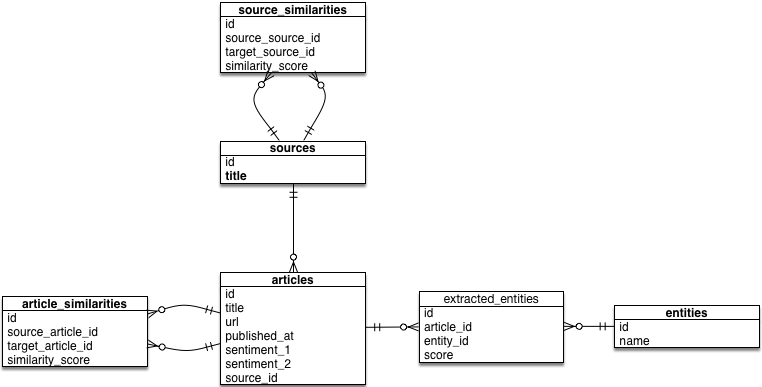
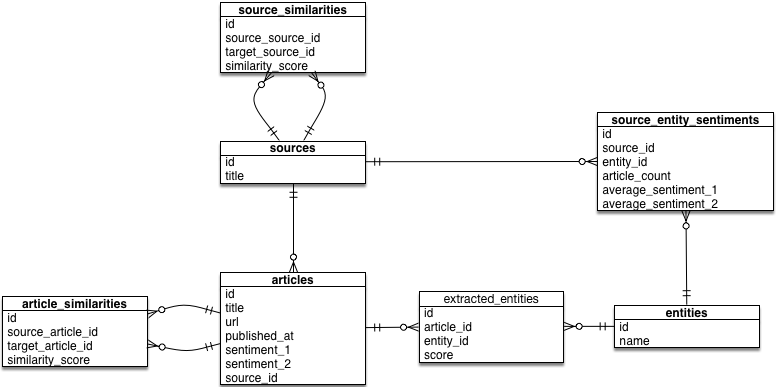
showing average sentiment per entity per source

diff --git a/app/assets/stylesheets/layout.css b/app/assets/stylesheets/layout.css
@@ -2,9 +2,6 @@
 .header {
 	background-color: #000;
 	background-color: rgba(0, 0, 0, 0.5);
-	position: fixed;
-	left: 0;
-	top: 0;
 	width: 100%;
 }
 
@@ -57,7 +54,7 @@
 
 /* main block */
 .main {
-	margin: 127px 3em 1em;
+	margin: 0 3em 1em;
 	padding: 1em;
 }
 .main p, .main ol {

diff --git a/db/schema.rb b/db/schema.rb
@@ -11,14 +11,56 @@
 #
 # It's strongly recommended that you check this file into your version control system.
 
-ActiveRecord::Schema.define(version: 20161129181927) do
+ActiveRecord::Schema.define(version: 20161201140303) do
 
   # These are extensions that must be enabled in order to support this database
   enable_extension "plpgsql"
 
+  create_table "article_similarities", force: :cascade do |t|
+    t.integer "source_article_id", null: false
+    t.integer "target_article_id", null: false
+    t.float   "similarity_score"
+  end
+
+  create_table "articles", force: :cascade do |t|
+    t.string   "title",        limit: 255, null: false
+    t.string   "url",          limit: 255
+    t.datetime "published_at"
+    t.float    "sentiment_1"
+    t.float    "sentiment_2"
+    t.integer  "source_id",                null: false
+  end
+
+  create_table "entities", force: :cascade do |t|
+    t.string "name", limit: 255, null: false
+  end
+
   create_table "extracted_entities", force: :cascade do |t|
+    t.integer "article_id", null: false
+    t.integer "entity_id",  null: false
+    t.float   "score"
+  end
+
+  create_table "source_entity_sentiments", force: :cascade do |t|
     t.datetime "created_at", null: false
     t.datetime "updated_at", null: false
   end
 
+  create_table "source_similarities", force: :cascade do |t|
+    t.integer "source_source_id", null: false
+    t.integer "target_source_id", null: false
+    t.float   "similarity_score"
+  end
+
+  create_table "sources", force: :cascade do |t|
+    t.string "title", limit: 255, null: false
+  end
+
+  add_foreign_key "article_similarities", "articles", column: "source_article_id", name: "fk_source_article"
+  add_foreign_key "article_similarities", "articles", column: "target_article_id", name: "fk_target_article"
+  add_foreign_key "articles", "sources", name: "fk_source"
+  add_foreign_key "extracted_entities", "articles", name: "fk_extracted_entity_article"
+  add_foreign_key "extracted_entities", "entities", name: "fk_extracted_entity_entity"
+  add_foreign_key "source_similarities", "sources", column: "source_source_id", name: "fk_source_source"
+  add_foreign_key "source_similarities", "sources", column: "target_source_id", name: "fk_target_source"
 end

diff --git a/app/models/entity.rb b/app/models/entity.rb
@@ -1,6 +1,7 @@
 class Entity < ActiveRecord::Base
   
   has_many :extracted_entities
+  has_many :source_entity_sentiments, -> { order 'average_sentiment_1 desc' }
   
   def articles
     Article.all

diff --git a/db/migrate/20161201140303_create_source_entity_sentiments.rb b/db/migrate/20161201140303_create_source_entity_sentiments.rb
@@ -1,0 +1,8 @@
+class CreateSourceEntitySentiments < ActiveRecord::Migration
+  def change
+    create_table :source_entity_sentiments do |t|
+
+      t.timestamps null: false
+    end
+  end
+end

diff --git a/test/models/source_entity_sentiment_test.rb b/test/models/source_entity_sentiment_test.rb
@@ -1,0 +1,7 @@
+require 'test_helper'
+
+class SourceEntitySentimentTest < ActiveSupport::TestCase
+  # test "the truth" do
+  #   assert true
+  # end
+end

diff --git a/app/models/source_entity_sentiment.rb b/app/models/source_entity_sentiment.rb
@@ -1,0 +1,5 @@
+class SourceEntitySentiment < ActiveRecord::Base
+  
+  belongs_to :source
+  belongs_to :entity
+end
